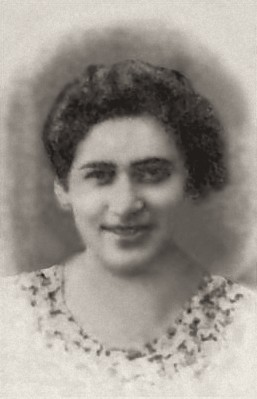
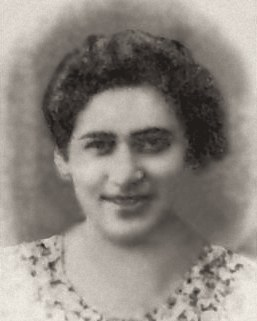
Add Faye Schulman and Rachel Auerbach portraits; common 4:5 portrait frame with WebP
- Grant-selected source photographs (JPEF; Yad Vashem), originals kept beside charcoal-style tone treatments
- All four treatments cropped to a common 4:5 frame, served as WebP with JPEG fallback
- Credits name each source; reuse permission for the JPEF and Yad Vashem images is recorded as not confirmed

Claude-Session: https://claude.ai/code/session_0171Soq6E7MDrfQ61GJECVvm

diff --git a/index.html b/index.html
@@ -305,11 +305,12 @@
   .pcard { background: #fff; border: 1px solid var(--line); border-radius: 12px; padding: 18px 18px 22px; height: 100%;
            box-shadow: 0 14px 34px rgba(28,26,23,.10); transform-style: preserve-3d; transition: transform .35s ease, box-shadow .35s ease; }
   .pcard-figure { margin: 0 0 16px; }
-  .pcard-figure img { display: block; width: 100%; max-width: 220px; height: auto; aspect-ratio: 257 / 399; object-fit: cover; margin: 0 auto;
+  .pcard-figure picture { display: block; }
+  .pcard-figure img { display: block; width: 100%; max-width: 220px; height: auto; aspect-ratio: 4 / 5; object-fit: cover; object-position: 50% 30%; margin: 0 auto;
                       border-radius: 6px; border: 1px solid var(--line-strong); box-shadow: 0 10px 22px rgba(28,26,23,.22); background: var(--paper-2); }
   .pcard-figure figcaption { font-size: 12.5px; line-height: 1.45; color: var(--ink-faint); margin-top: 10px; text-align: center; }
   .pcard-figure figcaption a { color: var(--accent); text-decoration: underline; text-underline-offset: 2px; white-space: nowrap; }
-  .pcard-missing .pcard-monogram { width: 100%; max-width: 220px; aspect-ratio: 257 / 399; margin: 0 auto; border-radius: 6px; border: 1px dashed var(--line-strong);
+  .pcard-missing .pcard-monogram { width: 100%; max-width: 220px; aspect-ratio: 4 / 5; margin: 0 auto; border-radius: 6px; border: 1px dashed var(--line-strong);
                       display: grid; place-items: center; font: 500 44px/1 var(--font-serif); color: var(--ink-faint); letter-spacing: .06em;
                       background: repeating-linear-gradient(135deg, var(--paper) 0 10px, var(--paper-2) 10px 20px); }
   .pcard .story-place { margin-bottom: 6px; font-size: 13px; }
@@ -469,8 +470,8 @@
           <li>
             <article class="pcard" id="woman-roza-robota" aria-labelledby="woman-roza-robota-name">
               <figure class="pcard-figure">
-                <img src="/assets/img/women/roza-robota-charcoal.jpg" width="257" height="399" loading="lazy" decoding="async"
-                     alt="Róża Robota, head-and-shoulders portrait taken before 1939: a young woman with dark curly hair, smiling, in a patterned blouse.">
+                <picture><source srcset="/assets/img/women/roza-robota-charcoal.webp" type="image/webp"><img src="/assets/img/women/roza-robota-charcoal.jpg" width="257" height="321" loading="lazy" decoding="async"
+                     alt="Róża Robota, head-and-shoulders portrait taken before 1939: a young woman with dark curly hair, smiling, in a patterned blouse."></picture>
                 <figcaption>Charcoal-style treatment of an archival photograph. <a href="/assets/img/women/roza-robota-original.jpg">Original photograph</a></figcaption>
               </figure>
               <div class="pcard-text">
@@ -486,8 +487,8 @@
           <li>
             <article class="pcard" id="woman-gisi-fleischmann" aria-labelledby="woman-gisi-fleischmann-name">
               <figure class="pcard-figure">
-                <img src="/assets/img/women/gisi-fleischmann-charcoal.jpg" width="300" height="469" loading="lazy" decoding="async"
-                     alt="Gisi Fleischmann, studio portrait: a woman with dark, shoulder-length hair, wearing a dark top and a double strand of pearls.">
+                <picture><source srcset="/assets/img/women/gisi-fleischmann-charcoal.webp" type="image/webp"><img src="/assets/img/women/gisi-fleischmann-charcoal.jpg" width="300" height="375" loading="lazy" decoding="async"
+                     alt="Gisi Fleischmann, studio portrait: a woman with dark, shoulder-length hair, wearing a dark top and a double strand of pearls."></picture>
                 <figcaption>Charcoal-style treatment of an archival photograph. <a href="/assets/img/women/gisi-fleischmann-original.jpg">Original photograph</a></figcaption>
               </figure>
               <div class="pcard-text">
@@ -501,9 +502,10 @@
           </li>
           <li>
             <article class="pcard" id="woman-rachel-auerbach" aria-labelledby="woman-rachel-auerbach-name">
-              <figure class="pcard-figure pcard-missing" aria-label="Portrait not shown">
-                <div class="pcard-monogram" aria-hidden="true">RA</div>
-                <figcaption>Archival portrait not shown: reuse rights for a photograph have not yet been confirmed.</figcaption>
+              <figure class="pcard-figure">
+                <picture><source srcset="/assets/img/women/rachel-auerbach-charcoal.webp" type="image/webp"><img src="/assets/img/women/rachel-auerbach-charcoal.jpg" width="478" height="598" loading="lazy" decoding="async"
+                     alt="Rachel Auerbach, head-and-shoulders portrait: a woman with her hair swept up, looking directly at the camera."></picture>
+                <figcaption>Charcoal-style treatment of an archival photograph. <a href="/assets/img/women/rachel-auerbach-original.jpg">Original photograph</a></figcaption>
               </figure>
               <div class="pcard-text">
                 <p class="story-place">Warsaw Ghetto</p>
@@ -516,9 +518,10 @@
           </li>
           <li>
             <article class="pcard" id="woman-faye-schulman" aria-labelledby="woman-faye-schulman-name">
-              <figure class="pcard-figure pcard-missing" aria-label="Portrait not shown">
-                <div class="pcard-monogram" aria-hidden="true">FS</div>
-                <figcaption>Archival portrait not shown: reuse rights for a photograph have not yet been confirmed.</figcaption>
+              <figure class="pcard-figure">
+                <picture><source srcset="/assets/img/women/faye-schulman-charcoal.webp" type="image/webp"><img src="/assets/img/women/faye-schulman-charcoal.jpg" width="168" height="210" loading="lazy" decoding="async"
+                     alt="Faye Schulman as a young woman: close portrait with dark hair parted at the side, smiling slightly, in a dark jacket and patterned collar."></picture>
+                <figcaption>Charcoal-style treatment of an archival photograph. <a href="/assets/img/women/faye-schulman-original.jpg">Original photograph</a></figcaption>
               </figure>
               <div class="pcard-text">
                 <p class="story-place">Partisan resistance</p>
@@ -536,7 +539,9 @@
         <ul>
           <li><b>Róża Robota</b>: photograph taken before 1939, photographer unknown. Via <a href="https://commons.wikimedia.org/wiki/File:Roza_Robota_(1921-1945).jpg">Wikimedia Commons</a>, where it is listed as public domain under Polish copyright law for photographs published before 1994 without a copyright notice. Details of its first publication are not confirmed. Tone treatment by The Legacy Project.</li>
           <li><b>Gisi Fleischmann</b>: Fleischmann family archive, from the archive of Viera Kamenická, via <a href="https://commons.wikimedia.org/wiki/File:Gisi_Fleischmann.jpg">Wikimedia Commons</a>, licensed <a href="https://creativecommons.org/licenses/by-sa/4.0/">CC BY-SA 4.0</a>. Adapted (charcoal-style tone treatment) by The Legacy Project; the adaptation is shared under the same licence.</li>
-          <li>The charcoal-style images are tone treatments of the archival photographs. No features have been added, altered or generated.</li>
+          <li><b>Rachel Auerbach</b>: Source: <a href="https://www.yadvashem.org/sites/default/files/styles/main_image/public/Rachel%20Auerbach_1.jpg">Yad Vashem</a>. Photographer and archival item not yet identified. Reuse permission has not been confirmed. Cropped and tone-treated by The Legacy Project.</li>
+          <li><b>Faye Schulman</b>: Source: <a href="https://www.jewishpartisans.org/partisans/faye-schulman">Jewish Partisan Educational Foundation (JPEF)</a>. Photographer and date not stated by the source. Reuse permission has not been confirmed. Cropped and tone-treated by The Legacy Project.</li>
+          <li>The charcoal-style images are tone treatments of the archival photographs, cropped to a common portrait frame. No features have been added, altered or generated. Credits identify sources only and do not imply endorsement.</li>
         </ul>
       </details>
       <p class="reference-note">These references provide historical background; linking to an institution does not imply its endorsement of the book or project.</p>

diff --git a/README.md b/README.md
@@ -28,7 +28,7 @@ Cloudflare Pages accepts files up to 25 MiB each. Keep video files under 22 MiB.
 
 ## Portraits
 
-`assets/img/women/` contains the archival photographs (`*-original.jpg`) and their charcoal-style tone treatments (`*-charcoal.jpg`). Sources and licences are credited on the homepage. Rachel Auerbach and Faye Schulman have no portrait yet because reuse rights have not been confirmed.
+`assets/img/women/` contains the archival photographs (`*-original.jpg`) and their charcoal-style tone treatments (`*-charcoal.jpg`). Sources are credited on the homepage. Gisi Fleischmann (CC BY-SA 4.0) and Róża Robota (public-domain rationale on Wikimedia Commons, first publication unconfirmed) have documented reuse status. The Rachel Auerbach (Yad Vashem) and Faye Schulman (JPEF) photographs were selected by Grant de Graf; reuse permission for them has not been confirmed.
 
 ## Reader
 
